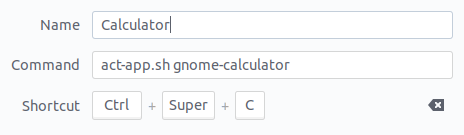
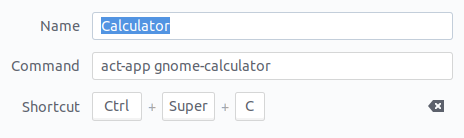
update installation doc

diff --git a/README.md b/README.md
@@ -14,7 +14,13 @@ Install needed tools
 sudo apt install xdotools wmctrl 
 ```
 
-Copy `act-app.sh` in any reachable directory (e.g. `/usr/local/bin`).
+Install the script from master branch in `/usr/local/bin` directory:
+
+```bash
+wget https://raw.githubusercontent.com/Oberonus/app-activator/master/act-app.sh && \
+chmod +x ./act-app.sh && \
+sudo mv act-app.sh /usr/local/bin/act-app
+```
 
 ## Usage example
 
